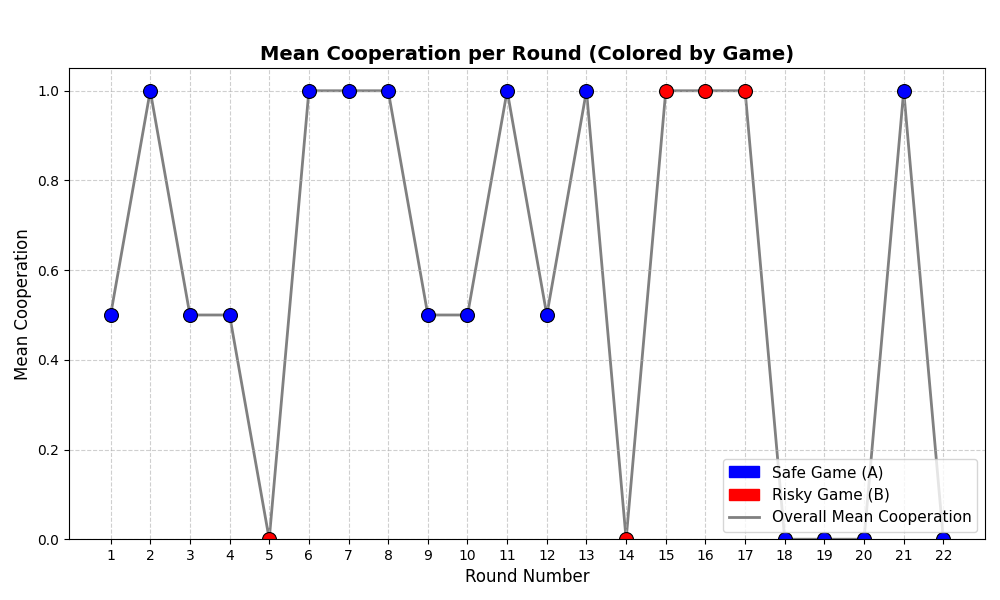
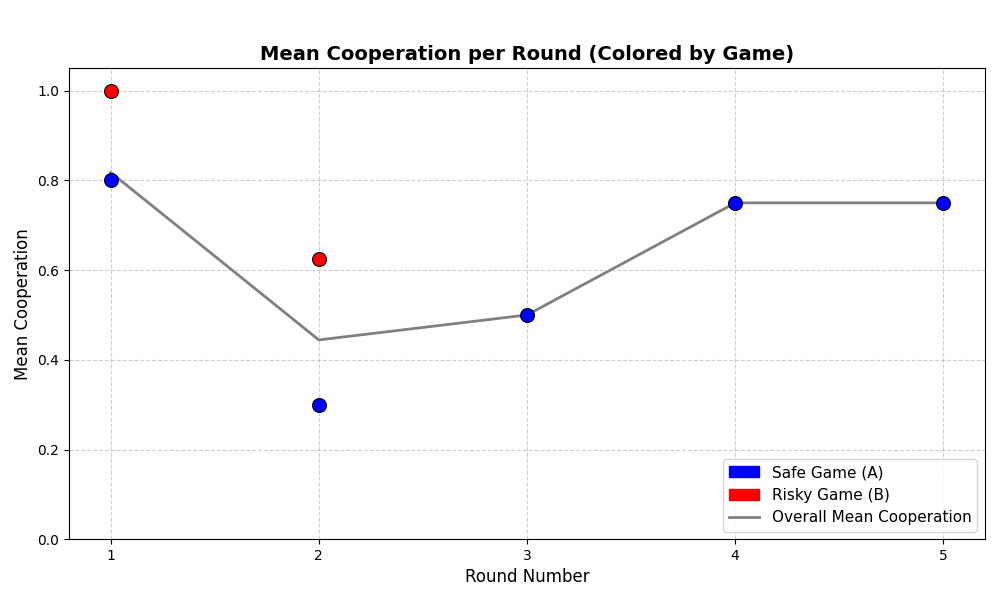
sdf

diff --git a/VR_T1a_part1/__init__.py b/VR_T1a_part1/__init__.py
@@ -11,7 +11,7 @@ class Constants(BaseConstants):
     name_in_url = 'cooperation_risk_pre'
     players_per_group = None
     num_rounds = 100    # Maximum rounds; experiment will end early once the lottery triggers.
-    min_rounds = 1     # Must play at least 20 rounds before the lottery may end the game.
+    min_rounds = 20     # Must play at least 20 rounds before the lottery may end the game.
     # Payoff matrices:
     matrix_A = {
         ('C', 'C'): (5, 5),

diff --git a/VR_T1a_part2/__init__.py b/VR_T1a_part2/__init__.py
@@ -12,7 +12,7 @@ class Constants(BaseConstants):
     name_in_url = 'cooperation_risk_main'
     players_per_group = 2
     num_rounds = 100    # Maximum rounds; experiment will end early once the lottery triggers.
-    min_rounds = 1     # Must play at least 20 rounds before the lottery may end the game.
+    min_rounds = 20     # Must play at least 20 rounds before the lottery may end the game.
     # Payoff matrices:
     matrix_A = {
         ('C', 'C'): (5, 5),

diff --git a/analysis.py b/analysis.py
@@ -3,7 +3,7 @@ import matplotlib.pyplot as plt
 import matplotlib.patches as mpatches
 
 # Load your CSV file
-file_path = "/Users/theo/Downloads/VR_T1a_part2_2025-06-24 (4).csv"
+file_path = "/Users/theo/Downloads/VR_T1a_part2_2025-06-24 (5).csv"
 df = pd.read_csv(file_path)
 
 # Step 1: Keep only rows where player.played == 1
